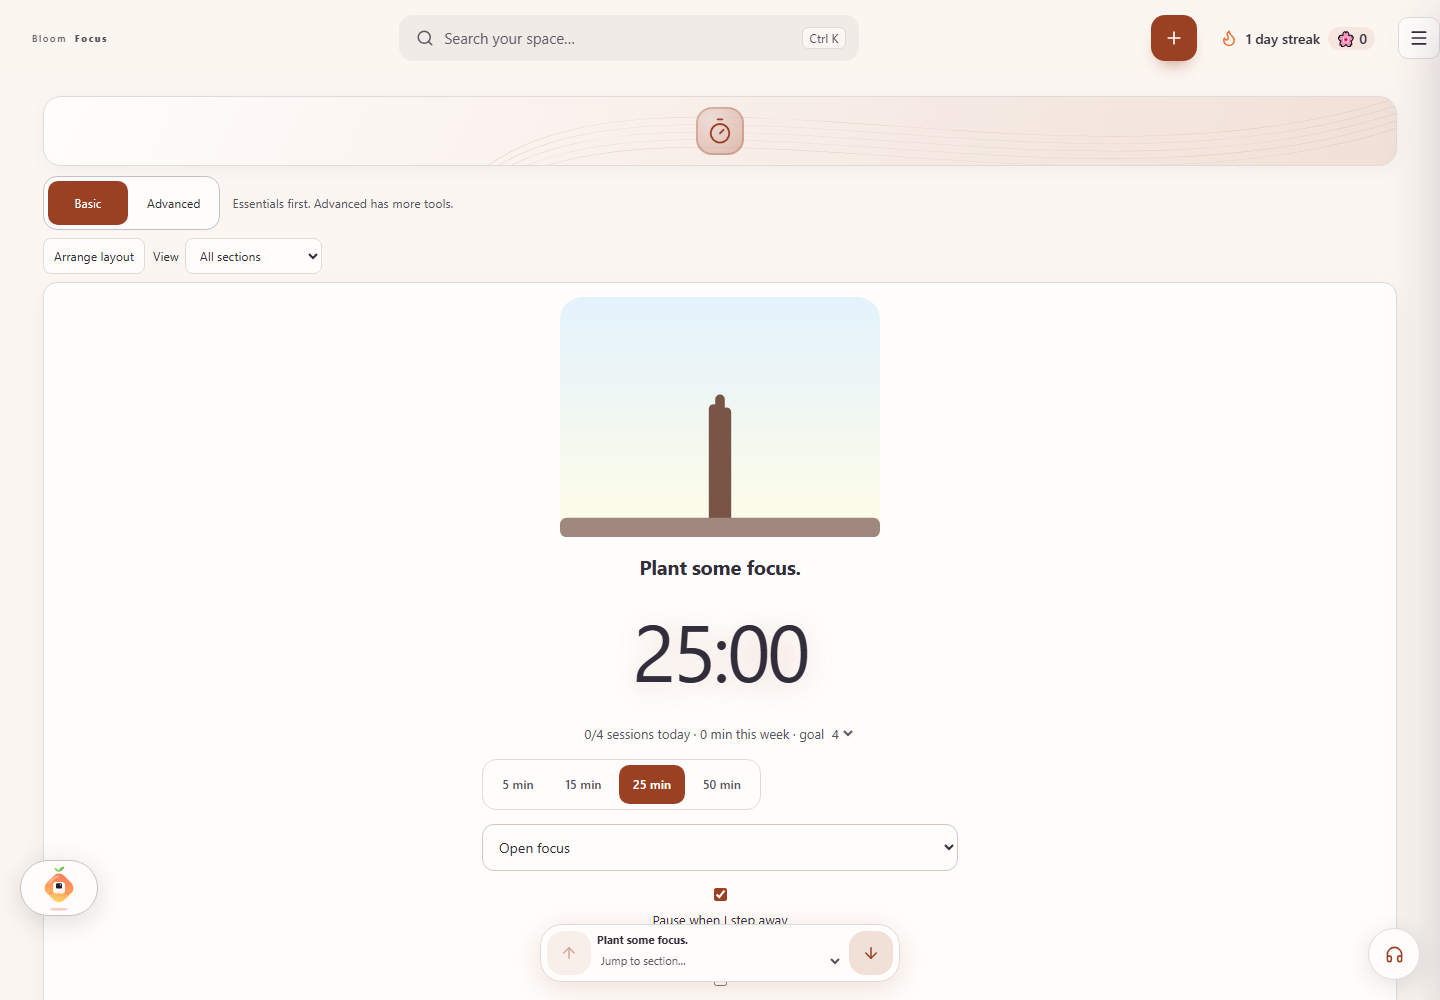
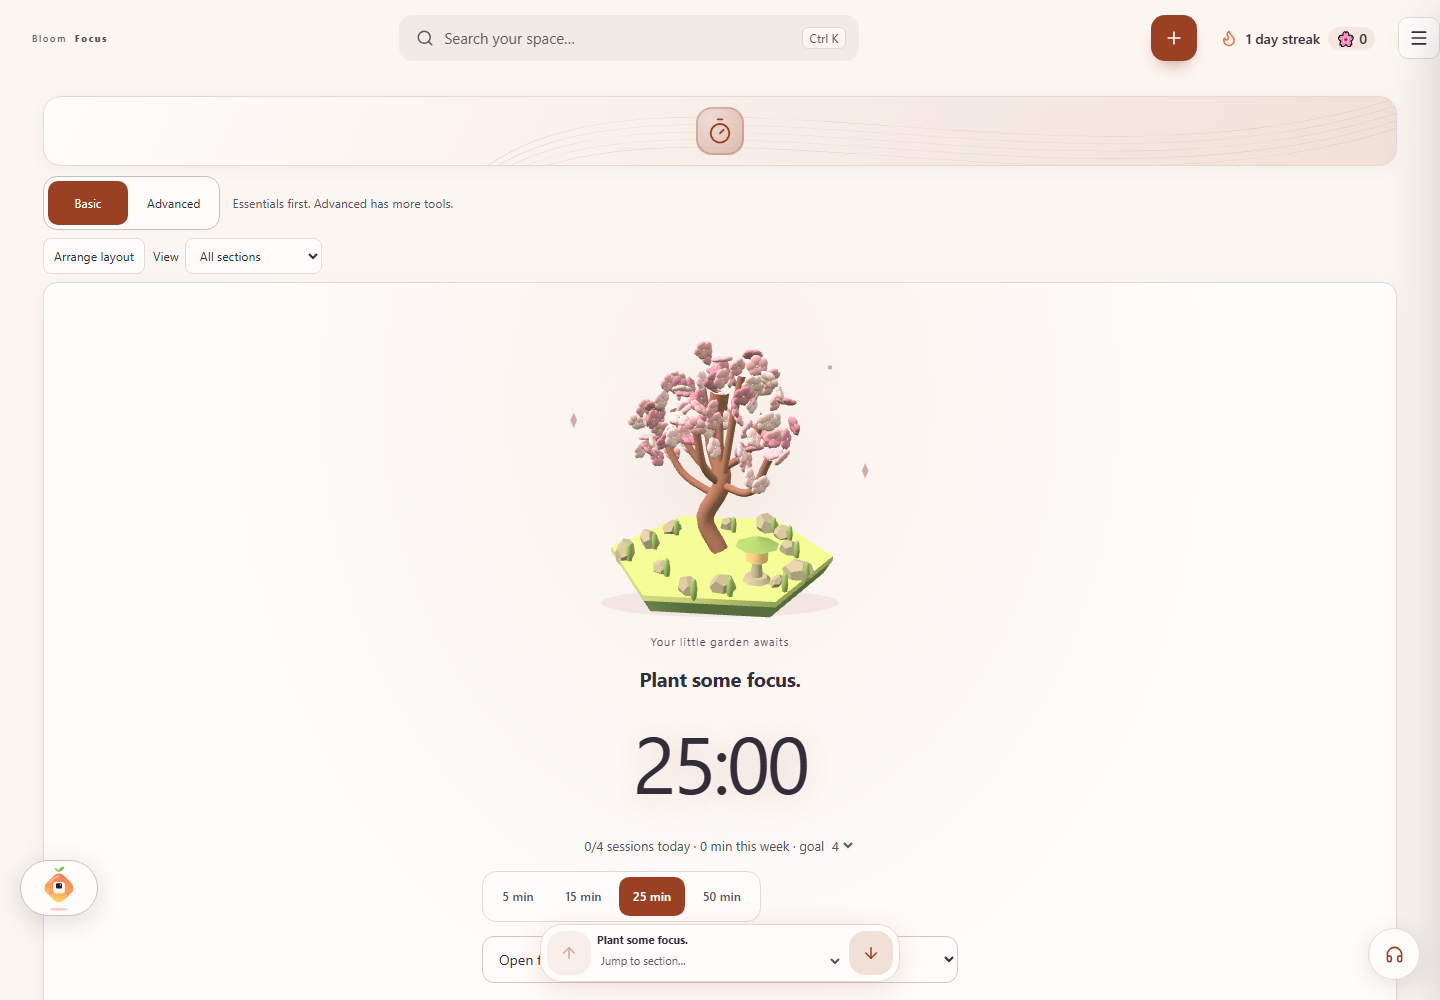
Build an animated blossom focus garden with Three.js, GSAP and SVG

diff --git a/src/features/quick/FocusTree.tsx b/src/features/quick/FocusTree.tsx
@@ -1,0 +1,256 @@
+import { useEffect, useId, useRef } from 'react'
+import gsap from 'gsap'
+import type { BufferGeometry } from 'three'
+import { prefersReducedMotion } from '../../utils/motion'
+import './focusTree.css'
+
+const clusters = [
+  [0, 2.9, 0], [-.85, 2.6, .2], [.8, 2.65, -.1], [-1.2, 2.1, .1],
+  [1.15, 2.05, .3], [-.6, 3.15, -.25], [.5, 3.25, .1], [0, 2.4, .65],
+]
+const random = (n: number) => { const v = Math.sin(n * 127.1) * 43758.5453; return v - Math.floor(v) }
+
+/** A small, locally rendered blossom garden; SVG remains usable without WebGL. */
+export function FocusTree({ progress, extra = 0 }: { progress: number; extra?: number }) {
+  const root = useRef<HTMLDivElement>(null)
+  const canvas = useRef<HTMLCanvasElement>(null)
+  const growth = useRef({ value: 0 })
+  const draw = useRef<(() => void) | null>(null)
+  const id = useId().replace(/:/g, '')
+  const fraction = Number.isFinite(progress) ? Math.max(0, Math.min(1, progress)) : 0
+
+  useEffect(() => {
+    const tween = gsap.to(growth.current, { value: fraction, duration: prefersReducedMotion() || document.documentElement.dataset.bloomMotion === 'paused' ? 0 : 1.1, ease: 'power2.out', onUpdate: () => draw.current?.() })
+    return () => { tween.kill() }
+  }, [fraction])
+
+  useEffect(() => {
+    const element = root.current
+    const target = canvas.current
+    if (!element || !target) return
+    let disposed = false
+    let cleanup = () => {}
+    void import('three').then(THREE => {
+      if (disposed) return
+      let renderer: InstanceType<typeof THREE.WebGLRenderer>
+      try { renderer = new THREE.WebGLRenderer({ canvas: target, alpha: true, antialias: true, powerPreference: 'low-power' }) }
+      catch { return }
+      renderer.setPixelRatio(Math.min(window.devicePixelRatio, 1.5))
+      renderer.outputColorSpace = THREE.SRGBColorSpace
+      const scene = new THREE.Scene()
+      const camera = new THREE.PerspectiveCamera(35, 1.25, .1, 50)
+      camera.position.set(5.4, 4.2, 7.5)
+      camera.lookAt(0, 1.55, 0)
+      scene.add(new THREE.HemisphereLight(0xfff7eb, 0x718454, 3))
+      const sun = new THREE.DirectionalLight(0xffe9dd, 3.4)
+      sun.position.set(-3, 6, 5)
+      scene.add(sun)
+      const garden = new THREE.Group()
+      scene.add(garden)
+      const material = (color: number) => new THREE.MeshStandardMaterial({ color, roughness: .86 })
+      const bark = material(0xa77360)
+      const grass = material(0xc2d583)
+      const soil = material(0x8fae78)
+      const rock = material(0xb1ad91)
+      const leaf = material(0x92b765)
+      const pink = [material(0xf2b7c8), material(0xf7d4de), material(0xda92ae)]
+      const gold = material(0xf4ce8c)
+      const mesh = (geometry: BufferGeometry, mat: InstanceType<typeof THREE.Material>, parent = garden) => {
+        const item = new THREE.Mesh(geometry, mat)
+        parent.add(item)
+        return item
+      }
+      mesh(new THREE.CylinderGeometry(2, 1.85, .26, 6), soil).position.y = -.12
+      mesh(new THREE.CylinderGeometry(2, 2, .09, 6), grass).position.y = .04
+      const branch = (points: number[][], radius: number) => {
+        const curve = new THREE.CatmullRomCurve3(points.map(p => new THREE.Vector3(...p as [number, number, number])))
+        mesh(new THREE.TubeGeometry(curve, 18, radius, 7, false), bark)
+      }
+      branch([[0, .12, 0], [-.25, .7, .1], [.05, 1.4, 0], [-.2, 2.1, -.1], [0, 2.95, 0]], .16)
+      clusters.forEach(([x, y, z], i) => branch([[0, 1.1 + i % 3 * .25, 0], [x * .65, y - .65, z * .7], [x, y, z]], .065))
+      for (let i = 0; i < 12; i++) {
+        const angle = i * 2.4
+        const distance = 1.1 + random(i + 3) * .65
+        const stone = mesh(new THREE.DodecahedronGeometry(.13 + random(i + 2) * .17, 0), rock)
+        stone.position.set(Math.cos(angle) * distance, .16, Math.sin(angle) * distance)
+        stone.scale.y = .65
+        stone.rotation.set(i, i * .3, i * .6)
+        const sprout = mesh(new THREE.SphereGeometry(.1, 6, 4), leaf)
+        sprout.position.copy(stone.position).add(new THREE.Vector3(.19, .05, .08))
+        sprout.scale.set(.6, 2, .6)
+      }
+      // A miniature lantern anchors the quiet garden, as in the visual reference.
+      const lantern = new THREE.Group()
+      garden.add(lantern)
+      lantern.position.set(1.12, .12, .55)
+      mesh(new THREE.CylinderGeometry(.18, .24, .08, 8), rock, lantern)
+      mesh(new THREE.CylinderGeometry(.07, .1, .3, 8), rock, lantern).position.y = .18
+      mesh(new THREE.CylinderGeometry(.18, .18, .24, 8), gold, lantern).position.y = .43
+      mesh(new THREE.ConeGeometry(.35, .15, 8), leaf, lantern).position.y = .64
+      const crown = new THREE.Group()
+      garden.add(crown)
+      const flowerGeometry = new THREE.SphereGeometry(.13, 6, 4)
+      const flowers: InstanceType<typeof THREE.Object3D>[] = []
+      // Instance the petals: hundreds of blossoms need only four draw calls.
+      const petals = pink.map(mat => new THREE.InstancedMesh(flowerGeometry, mat, 190))
+      petals.forEach(item => crown.add(item))
+      const centers = new THREE.InstancedMesh(new THREE.SphereGeometry(.032, 5, 4), gold, 112)
+      crown.add(centers)
+      const petalTransforms = Array.from({ length: 5 }, (_, petal) => new THREE.Matrix4().compose(
+        new THREE.Vector3(Math.cos(petal * Math.PI * .4) * .105, Math.sin(petal * Math.PI * .4) * .105, 0),
+        new THREE.Quaternion(), new THREE.Vector3(1, 1, .48)))
+      const centerTransform = new THREE.Matrix4().makeTranslation(0, 0, .03)
+      const matrix = new THREE.Matrix4()
+      for (let i = 0; i < 112; i++) {
+        const center = clusters[i % clusters.length]
+        const angle = random(i + 15) * Math.PI * 2
+        const height = random(i + 45) * 2 - 1
+        const radius = Math.sqrt(1 - height * height) * (.32 + random(i + 99) * .24)
+        const bloom = new THREE.Object3D()
+        bloom.position.set(center[0] + Math.cos(angle) * radius, center[1] + height * .45, center[2] + Math.sin(angle) * radius)
+        bloom.rotation.set(random(i) * 2, random(i + 10) * 3, random(i + 20) * 2)
+        flowers.push(bloom)
+      }
+      const petalGeometry = new THREE.SphereGeometry(.045, 5, 3)
+      const drifting = Array.from({ length: 9 }, (_, i) => {
+        const petal = mesh(petalGeometry, pink[i % 3])
+        petal.scale.set(1, .4, .7)
+        return petal
+      })
+      let frame = 0
+      let last = 0
+      let visible = true
+      let reduced = false
+      let contextLost = false
+      let elapsed = 0
+      const media = window.matchMedia('(prefers-reduced-motion: reduce)')
+      let renderedGrowth = -1
+      const render = () => {
+        if (contextLost || disposed) return
+        if (renderedGrowth !== growth.current.value) {
+          renderedGrowth = growth.current.value
+          const counts = [0, 0, 0]
+          flowers.forEach((flower, i) => {
+            flower.scale.setScalar(.75 + .45 * Math.max(0, Math.min(1, renderedGrowth * 1.6 - i / flowers.length * .6)))
+            flower.updateMatrix()
+            petalTransforms.forEach(transform => petals[i % 3].setMatrixAt(counts[i % 3]++, matrix.multiplyMatrices(flower.matrix, transform)))
+            centers.setMatrixAt(i, matrix.multiplyMatrices(flower.matrix, centerTransform))
+          })
+          petals.forEach((item, i) => { item.count = counts[i]; item.instanceMatrix.needsUpdate = true; item.computeBoundingSphere() })
+          centers.instanceMatrix.needsUpdate = true
+          centers.computeBoundingSphere()
+        }
+        renderer.render(scene, camera)
+      }
+      draw.current = render
+      const tick = (time: number) => {
+        frame = 0
+        if (disposed || contextLost || !visible || document.hidden || reduced) return
+        if (time - last >= 32) {
+          elapsed += Math.min(.05, (time - last) / 1000)
+          last = time
+          crown.rotation.z = Math.sin(elapsed * .65) * .018
+          garden.rotation.y = Math.sin(elapsed * .22) * .045
+          drifting.forEach((petal, i) => {
+            const phase = (elapsed * .16 + i / 9) % 1
+            petal.position.set(Math.sin(elapsed * .5 + i * 2) * 1.5, 3.3 * (1 - phase), Math.cos(i * 3) * .9)
+            petal.rotation.z = elapsed * .6 + i
+          })
+          render()
+        }
+        frame = requestAnimationFrame(tick)
+      }
+      const sync = () => {
+        reduced = media.matches || prefersReducedMotion() || document.documentElement.dataset.bloomMotion === 'paused'
+        if (reduced) gsap.getTweensOf(growth.current).forEach(tween => tween.progress(1))
+        cancelAnimationFrame(frame)
+        frame = 0
+        drifting.forEach(petal => { petal.visible = !reduced })
+        render()
+        if (!reduced && !contextLost && visible && !document.hidden) { last = performance.now(); frame = requestAnimationFrame(tick) }
+      }
+      const resize = new ResizeObserver(() => {
+        const { width, height } = element.getBoundingClientRect()
+        if (!width || !height) return
+        renderer.setSize(width, height, false)
+        camera.aspect = width / height
+        camera.updateProjectionMatrix()
+        sync()
+      })
+      resize.observe(element)
+      const intersection = new IntersectionObserver(entries => { visible = entries[0].isIntersecting; sync() })
+      intersection.observe(element)
+      const motion = new MutationObserver(sync)
+      motion.observe(document.documentElement, { attributes: true, attributeFilter: ['data-reduce-motion', 'data-bloom-motion'] })
+      media.addEventListener('change', sync)
+      document.addEventListener('visibilitychange', sync)
+      const lost = () => { contextLost = true; element.dataset.rendered = 'false'; cancelAnimationFrame(frame) }
+      target.addEventListener('webglcontextlost', lost)
+      element.dataset.rendered = 'true'
+      sync()
+      cleanup = () => {
+        draw.current = null
+        cancelAnimationFrame(frame)
+        resize.disconnect(); intersection.disconnect(); motion.disconnect()
+        media.removeEventListener('change', sync)
+        document.removeEventListener('visibilitychange', sync)
+        target.removeEventListener('webglcontextlost', lost)
+        const geometries = new Set<InstanceType<typeof THREE.BufferGeometry>>()
+        const materials = new Set<InstanceType<typeof THREE.Material>>()
+        scene.traverse(object => {
+          if (object instanceof THREE.Mesh) {
+            geometries.add(object.geometry)
+            const list = Array.isArray(object.material) ? object.material : [object.material]
+            list.forEach(value => materials.add(value))
+          }
+        })
+        geometries.forEach(value => value.dispose()); materials.forEach(value => value.dispose())
+        renderer.dispose()
+        delete element.dataset.rendered
+      }
+    }).catch(() => { /* SVG garden is the offline / unsupported-device fallback. */ })
+    return () => { disposed = true; cleanup() }
+  }, [])
+
+  useEffect(() => {
+    const element = root.current
+    if (!element) return
+    const context = gsap.context(() => {
+      if (!prefersReducedMotion() && document.documentElement.dataset.bloomMotion !== 'paused') {
+        gsap.from('.focus-tree-art', { opacity: 0, y: 12, duration: .7, ease: 'power2.out' })
+      }
+    }, element)
+    return () => context.revert()
+  }, [])
+
+  return (
+    <div className="focus-tree grow-scene" ref={root} role="img" aria-label={`Blossom focus tree: ${Math.round(fraction * 100)}% of session grown${extra ? `, ${extra} sessions today` : ''}`}>
+      <svg className="focus-tree-art" viewBox="0 0 400 320" aria-hidden="true">
+        <defs>
+          <radialGradient id={`${id}-halo`}><stop stopColor="var(--accent-soft)" stopOpacity=".7"/><stop offset="1" stopColor="var(--bg-surface)" stopOpacity="0"/></radialGradient>
+          <linearGradient id={`${id}-bark`}><stop stopColor="#b98370"/><stop offset="1" stopColor="#805647"/></linearGradient>
+        </defs>
+        <ellipse cx="200" cy="162" rx="170" ry="150" fill={`url(#${id}-halo)`}/>
+        <ellipse cx="200" cy="278" rx="108" ry="13" fill="var(--accent-color)" opacity=".08"/>
+        <g className="focus-tree-fallback">
+          <path d="M74 242 195 205 327 242 206 296Z" fill="#90af7c"/>
+          <path d="M74 231 195 194 327 231 206 285Z" fill="#c2d583"/>
+          <path d="M204 244 Q177 218 193 184 Q214 145 195 102 M195 185 Q154 158 130 121 M203 157 Q249 140 275 110 M197 124 Q228 96 229 72" fill="none" stroke={`url(#${id}-bark)`} strokeWidth="15" strokeLinecap="round"/>
+          {Array.from({ length: 64 }, (_, i) => {
+            const angle = random(i + 4) * Math.PI * 2
+            const radius = Math.sqrt(random(i + 32))
+            return <g key={i} transform={`translate(${200 + Math.cos(angle) * radius * 105} ${112 + Math.sin(angle) * radius * 66}) scale(${.65 + fraction * .35})`}>
+              {[0, 72, 144, 216, 288].map(rotation => <ellipse key={rotation} rx="4" ry="6" transform={`rotate(${rotation}) translate(0 -4)`} fill={i % 2 ? '#f2b7c8' : '#f7d4de'}/>)}
+              <circle r="2" fill="#f4ce8c"/>
+            </g>
+          })}
+          <ellipse cx="254" cy="240" rx="18" ry="9" fill="#b1ad91"/>
+          <ellipse cx="136" cy="230" rx="14" ry="8" fill="#b1ad91"/>
+        </g>
+        <g fill="var(--accent-color)" opacity=".4"><path d="m64 112 3-7 3 7-3 7Z"/><path d="m329 158 3-7 3 7-3 7Z"/><circle cx="300" cy="64" r="2"/></g>
+      </svg>
+      <canvas ref={canvas} className="focus-tree-canvas" aria-hidden="true" />
+      <span className="focus-tree-caption" aria-hidden="true">{fraction >= 1 ? 'A moment well grown' : fraction > 0 ? 'One quiet moment at a time' : 'Your little garden awaits'}</span>
+    </div>
+  )
+}

diff --git a/e2e/focus-tree.spec.ts b/e2e/focus-tree.spec.ts
@@ -1,0 +1,67 @@
+import { test, expect } from '@playwright/test'
+
+test.beforeEach(async ({ page }) => {
+  await page.addInitScript(() => localStorage.setItem('bloom-welcome-v1', '{}'))
+  await page.emulateMedia({ reducedMotion: 'reduce' })
+})
+
+test('blossom garden renders and survives losing its WebGL context', async ({ page }) => {
+  const errors: string[] = []
+  page.on('pageerror', error => errors.push(error.message))
+  await page.goto('/#focus')
+  const garden = page.locator('.focus-room .focus-tree')
+  await expect(garden).toHaveAttribute('aria-label', /0% of session grown/)
+  await expect(garden).toHaveAttribute('data-rendered', 'true', { timeout: 30000 })
+  const canvas = garden.locator('canvas')
+  const still = await canvas.screenshot()
+  await page.waitForTimeout(200)
+  expect(await canvas.screenshot()).toEqual(still)
+  await canvas.evaluate(node => {
+    const context = (node as HTMLCanvasElement).getContext('webgl2')
+    context?.getExtension('WEBGL_lose_context')?.loseContext()
+  })
+  await expect(garden).toHaveAttribute('data-rendered', 'false')
+  await expect(garden.locator('.focus-tree-fallback')).toBeVisible()
+  expect(errors).toEqual([])
+})
+
+test('SVG garden works when WebGL is unavailable', async ({ page }) => {
+  await page.addInitScript(() => {
+    const original = HTMLCanvasElement.prototype.getContext
+    HTMLCanvasElement.prototype.getContext = function (type, ...args) {
+      if (type === 'webgl' || type === 'webgl2' || type === 'experimental-webgl') return null
+      return Reflect.apply(original, this, [type, ...args])
+    } as typeof original
+  })
+  await page.goto('/#focus')
+  const garden = page.locator('.focus-room .focus-tree')
+  await expect(garden).toBeVisible()
+  await expect(garden.locator('.focus-tree-fallback')).toBeVisible()
+  await expect(page.getByRole('button', { name: 'Start focus', exact: true })).toBeEnabled()
+  await expect(page.locator('.page-crash')).toHaveCount(0)
+})
+
+test('tree animates, obeys the motion switch, and tracks session growth', async ({ page }, testInfo) => {
+  await page.emulateMedia({ reducedMotion: 'no-preference' })
+  await page.goto('/#focus')
+  const garden = page.locator('.focus-room .focus-tree')
+  await expect(garden).toHaveAttribute('data-rendered', 'true', { timeout: 30000 })
+  const canvas = garden.locator('canvas')
+  const moving = await canvas.screenshot()
+  await page.waitForTimeout(400)
+  expect(await canvas.screenshot()).not.toEqual(moving)
+  await page.evaluate(() => { document.documentElement.dataset.bloomMotion = 'paused' })
+  await page.waitForTimeout(100)
+  const paused = await canvas.screenshot()
+  await page.waitForTimeout(200)
+  expect(await canvas.screenshot()).toEqual(paused)
+  await page.getByRole('button', { name: '5 min', exact: true }).click()
+  await page.getByRole('checkbox', { name: /Pause when I step away/ }).uncheck()
+  const now = await page.evaluate(() => Date.now())
+  await page.clock.setFixedTime(now)
+  await page.getByRole('button', { name: 'Start focus', exact: true }).click()
+  await page.clock.setFixedTime(now + 150000)
+  await expect(garden).toHaveAttribute('aria-label', /50% of session grown/, { timeout: 10000 })
+  expect(await canvas.screenshot()).not.toEqual(paused)
+  await garden.screenshot({ path: testInfo.outputPath('blossom-half-grown.png') })
+})

diff --git a/src/features/quick/GrowScene.tsx b/src/features/quick/GrowScene.tsx
@@ -2,6 +2,7 @@ import { prefersReducedMotion } from '../../utils/motion'
 import { useLayoutEffect, useMemo, useRef } from 'react'
 import gsap from 'gsap'
 import { createNoise2D } from 'simplex-noise'
+import { FocusTree } from './FocusTree'
 
 /**
  * Focus grow scenes: SVG worlds that fill in as a session progresses. Each
@@ -124,6 +125,7 @@ export function GrowScene({ scene, progress, extra = 0 }: { scene: SceneId; prog
     return () => void tw.progress(1)
   }, [shown])
   const [top, bottom] = skies[scene] ?? skies.tree
+  if (scene === 'tree') return <FocusTree progress={progress} extra={extra} />
   return (
     <svg className="grow-scene" viewBox="0 0 200 150" role="img" aria-label={`${scenes.find((s) => s.id === scene)?.name}: ${shown} of ${count} grown`}>
       <defs>
@@ -133,7 +135,6 @@ export function GrowScene({ scene, progress, extra = 0 }: { scene: SceneId; prog
         </linearGradient>
       </defs>
       <rect width="200" height="150" rx="14" fill={`url(#sky-${scene})`} />
-      {scene === 'tree' && <path d="M96 140 V70 M100 140 V64 M104 140 V72" stroke="#795548" strokeWidth="6" strokeLinecap="round" />}
       {scene === 'treasure' && <path d="M70 140 h60 v-22 q-30 -18 -60 0z" fill="#8d6e63" stroke="#5d4037" strokeWidth="2" />}
       <g ref={root}>
         {list.map((p, i) => (

diff --git a/src/features/quick/focusTree.css b/src/features/quick/focusTree.css
@@ -1,0 +1,9 @@
+.focus-tree.grow-scene { position: relative; isolation: isolate; width: 100%; max-width: 440px; aspect-ratio: 5 / 4; margin: 0 auto; }
+.focus-tree-art, .focus-tree-canvas { position: absolute; inset: 0; width: 100%; height: 100%; pointer-events: none; }
+.focus-tree-canvas { opacity: 0; }
+.focus-tree[data-rendered='true'] .focus-tree-canvas { opacity: 1; }
+.focus-tree[data-rendered='true'] .focus-tree-fallback { visibility: hidden; }
+.focus-tree-caption { position: absolute; bottom: 0; left: 0; right: 0; font-size: 11px; letter-spacing: .08em; color: var(--text-secondary); }
+.focus-room { background: radial-gradient(ellipse at 50% 12%, color-mix(in srgb, var(--accent-soft) 40%, transparent), transparent 55%), var(--bg-surface); }
+.focus-room .focus-countdown { letter-spacing: -.04em; }
+.fd-tile .focus-tree { max-width: 100%; }

diff --git a/src/styles/bloom-surfaces.css b/src/styles/bloom-surfaces.css
@@ -39,6 +39,13 @@
 .bc-panel.uses-app-theme .companion-message { border: 1px solid var(--border-color); background: var(--bg-primary); }
 .bc-panel.uses-app-theme .companion-message.user { background: var(--accent-soft); }
 .bc-panel.uses-app-theme .companion-ai-options { background: var(--bg-primary); border-color: var(--border-color); }
+.bc-panel.uses-app-theme .companion-orb::after {
+  border-top-color: color-mix(in srgb, var(--accent-color) 35%, var(--bg-surface));
+  filter: drop-shadow(0 0 5px var(--accent-color));
+}
+.bc-panel.uses-app-theme :is(.bc-head-actions button[aria-selected='true'], .cs-message--outgoing .cs-message__content) {
+  color: var(--text-on-accent, var(--bg-primary));
+}
 html,
 body,
 body * {

diff --git a/README.md b/README.md
@@ -84,6 +84,10 @@ Source: [Code City](src/features/codecity/CodeCityPage.tsx), [Git reader](src/fe
 
 Long pages share up/down arrows and a section menu. Wheel, touch, and keyboard scrolling remain available. Motion respects reduced-motion preferences.
 
+The focus garden combines a Three.js blossom tree, GSAP growth transitions, and SVG artwork with a fallback for devices without WebGL. Petals drift and branches sway while a session grows; animation pauses offscreen and follows motion settings. Bloom chat uses the app theme by default, shares common button styles, and leaves section arrows clear of its panel.
+
+Garden design references: [Focus Tree blossom garden](https://www.pinterest.com/pin/690176711698423403/) and [K Bank Money Tree motion study](https://www.behance.net/gallery/207011093/K-Bank-Money-Tree-Grow-Your-Wealth). All garden geometry and SVG artwork are generated locally.
+
 ## Development
 
 ```powershell
